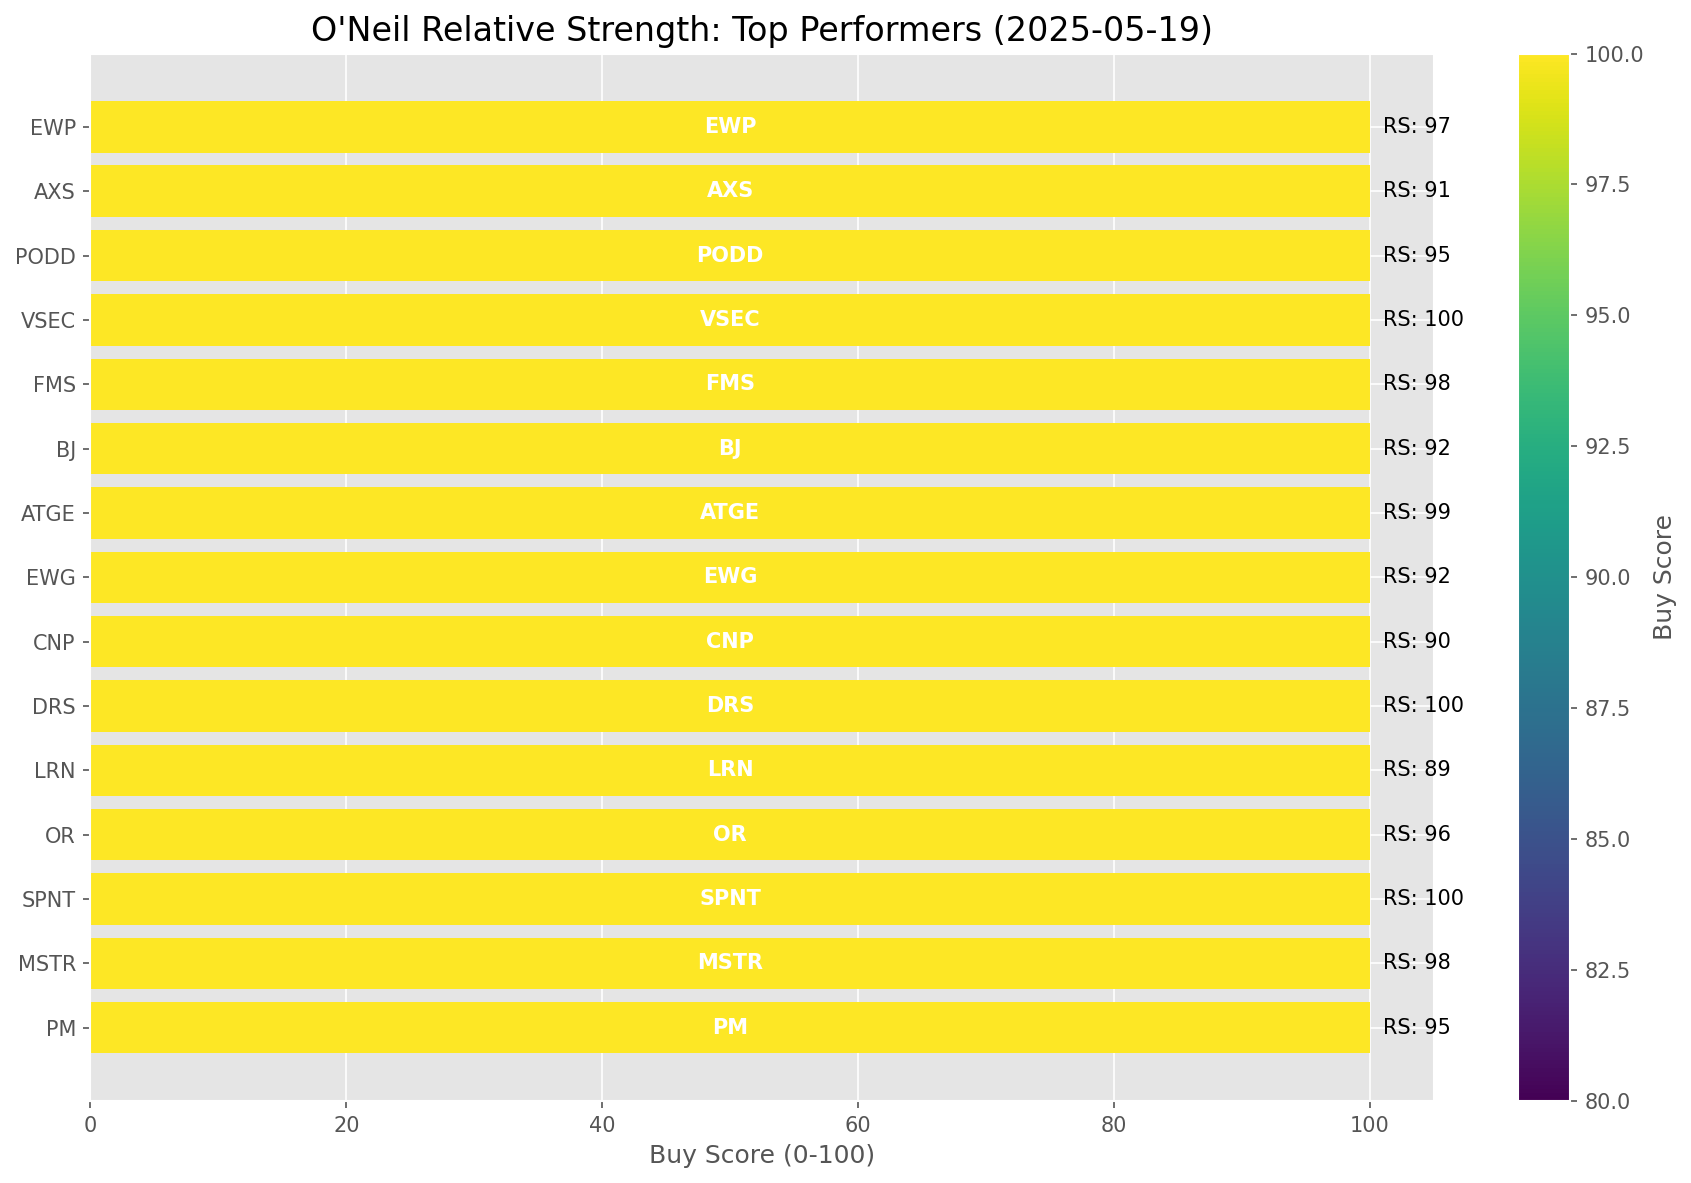
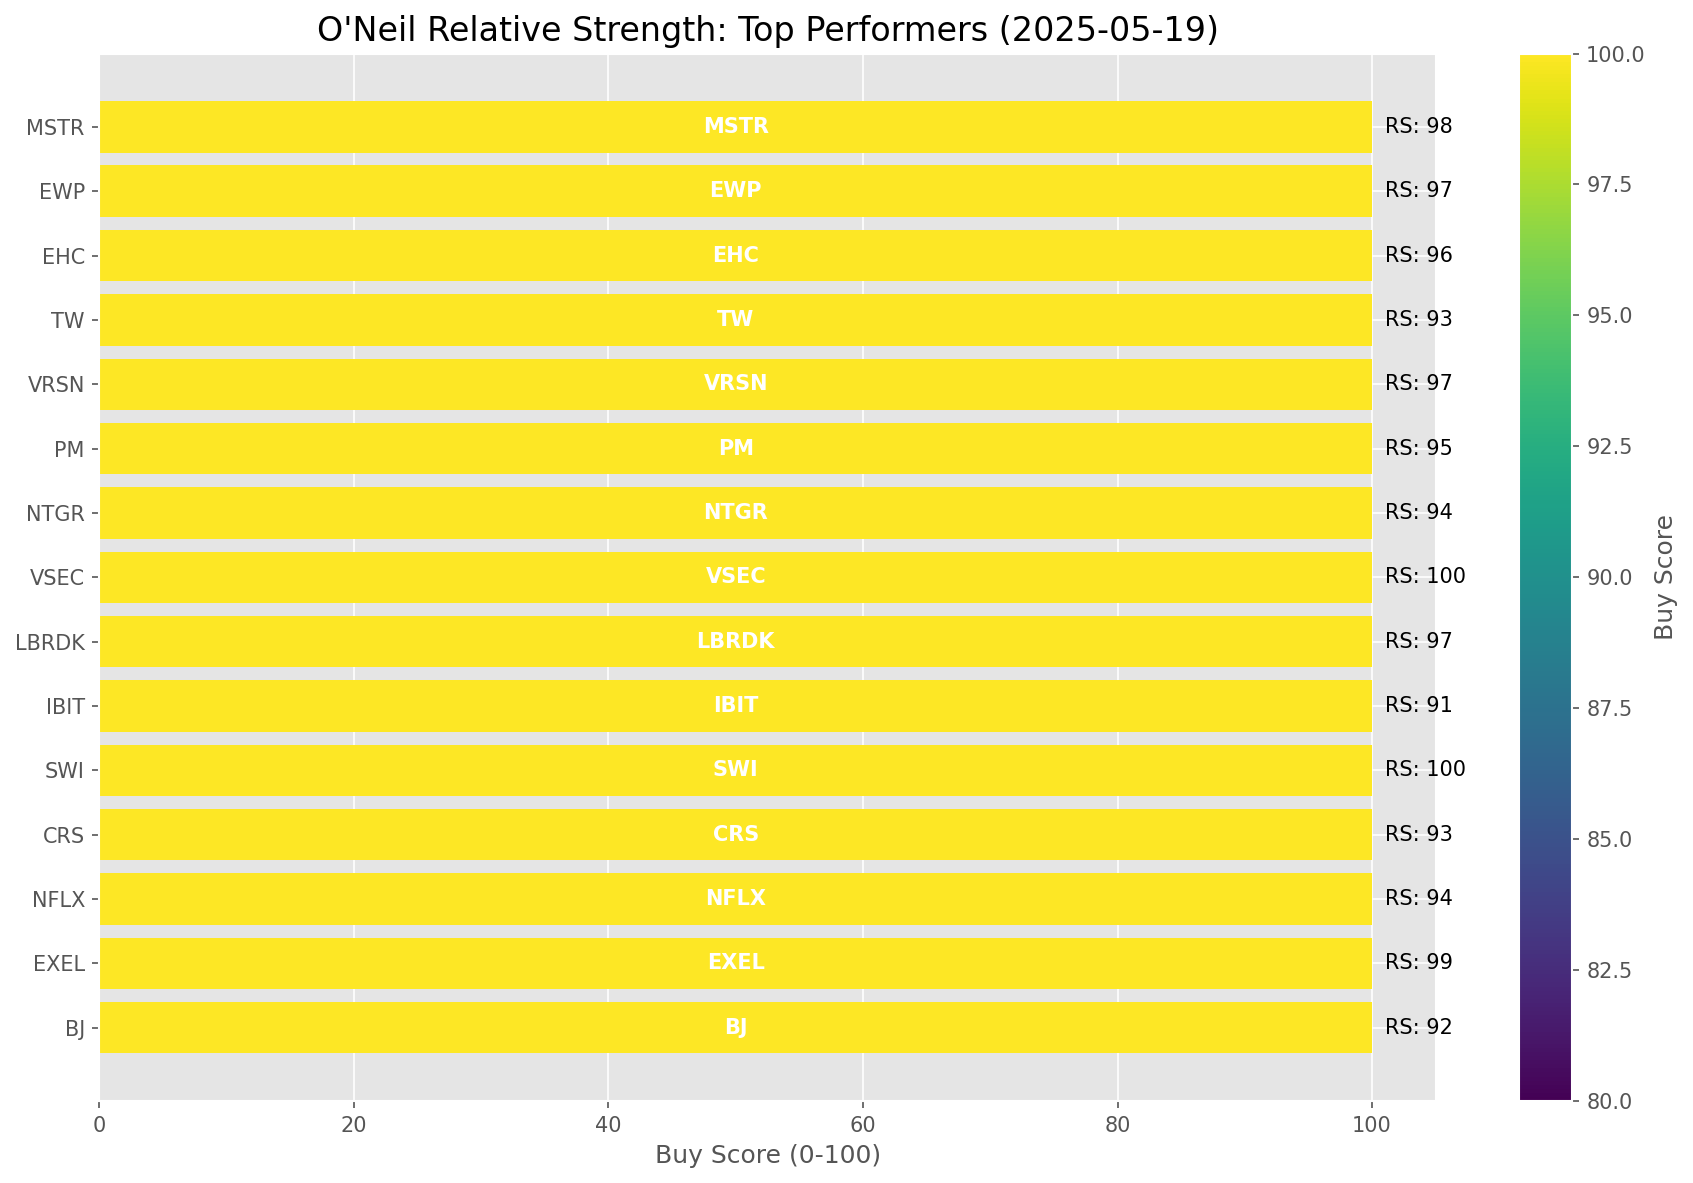
Add market report for 2025-05-19

diff --git a/oneil_relative_strength_report_2025-05-19.md b/oneil_relative_strength_report_2025-05-19.md
@@ -67,8 +67,8 @@ Based on William O'Neil's Relative Strength Methodology
 | [ARKW](https://www.tradingview.com/chart/?symbol=ARKW) | 72.0 | 44.0 | -4.76% | 10d ✓, 50d ✓, 200d ✓ | ↗ | Next Generation Internet |
 | [ARKF](https://www.tradingview.com/chart/?symbol=ARKF) | 70.0 | 40.0 | -5.89% | 10d ✓, 50d ✓, 200d ✓ | ↗ | Fintech Innovation |
 | [IYR](https://www.tradingview.com/chart/?symbol=IYR) | 69.8 | 60.0 | -0.76% | 10d ✓, 50d ✓, 200d ✗ | ↗ | Real Estate |
-| [BIL](https://www.tradingview.com/chart/?symbol=BIL) | 62.0 | 64.0 | 0.00% | 10d ✓, 50d ✓, 200d ✓ | ↘ | Short-term Treasuries |
 | [JETS](https://www.tradingview.com/chart/?symbol=JETS) | 62.0 | 24.0 | -12.15% | 10d ✓, 50d ✓, 200d ✓ | ↗ | Airlines |
+| [BIL](https://www.tradingview.com/chart/?symbol=BIL) | 62.0 | 64.0 | 0.00% | 10d ✓, 50d ✓, 200d ✓ | ↘ | Short-term Treasuries |
 | [ARKK](https://www.tradingview.com/chart/?symbol=ARKK) | 61.0 | 22.0 | -13.66% | 10d ✓, 50d ✓, 200d ✓ | ↗ | Innovation |
 | [URA](https://www.tradingview.com/chart/?symbol=URA) | 59.0 | 58.0 | -1.38% | 10d ✓, 50d ✓, 200d ✓ | ↘ | Uranium |
 | [SLV](https://www.tradingview.com/chart/?symbol=SLV) | 58.7 | 57.0 | -1.64% | 10d ✗, 50d ✗, 200d ✓ | ↗ | Silver |
@@ -110,71 +110,71 @@ The following 104 stocks show exceptional relative strength:
 
 | RS Rating | Buy Score | Current Price | Chart | Name | Ticker |
 |-----------|-----------|---------------|-------|------|--------|
-| 100 | 100 | $19.65 | [Chart](https://www.tradingview.com/chart/?symbol=SPNT) | SiriusPoint Ltd. | SPNT |
-| 100 | 100 | $42.00 | [Chart](https://www.tradingview.com/chart/?symbol=DRS) | Leonardo DRS, Inc. Common Stock | DRS |
 | 100 | 100 | $133.69 | [Chart](https://www.tradingview.com/chart/?symbol=VSEC) | VSE Corp | VSEC |
-| 100 | 100 | $28.56 | [Chart](https://www.tradingview.com/chart/?symbol=DB) | Deutsche Bank Aktiengesellschaft | DB |
+| 100 | 100 | $42.00 | [Chart](https://www.tradingview.com/chart/?symbol=DRS) | Leonardo DRS, Inc. Common Stock | DRS |
 | 100 | 100 | $98.75 | [Chart](https://www.tradingview.com/chart/?symbol=SEZL) | Sezzle Inc. Common Stock | SEZL |
+| 100 | 100 | $19.65 | [Chart](https://www.tradingview.com/chart/?symbol=SPNT) | SiriusPoint Ltd. | SPNT |
 | 100 | 100 | $182.97 | [Chart](https://www.tradingview.com/chart/?symbol=DAVE) | Dave Inc. Class A Common Stock | DAVE |
 | 100 | 100 | $26.70 | [Chart](https://www.tradingview.com/chart/?symbol=UVE) | UNIVERSAL INSURANCE HLDG, INC. | UVE |
+| 100 | 100 | $28.56 | [Chart](https://www.tradingview.com/chart/?symbol=DB) | Deutsche Bank Aktiengesellschaft | DB |
 | 100 | 100 | $161.24 | [Chart](https://www.tradingview.com/chart/?symbol=NRG) | NRG Energy, Inc. | NRG |
 | 100 | 100 | $23.27 | [Chart](https://www.tradingview.com/chart/?symbol=PRA) | ProAssurance Corporation | PRA |
-| 99 | 100 | $134.91 | [Chart](https://www.tradingview.com/chart/?symbol=ATGE) | Adtalem Global Education Inc. Common Shares | ATGE |
-| 99 | 100 | $188.98 | [Chart](https://www.tradingview.com/chart/?symbol=AGX) | Argan, Inc | AGX |
 | 99 | 100 | $44.69 | [Chart](https://www.tradingview.com/chart/?symbol=EXEL) | Exelixis Inc | EXEL |
 | 99 | 100 | $35.13 | [Chart](https://www.tradingview.com/chart/?symbol=KTOS) | Kratos Defense & Security Solutions, Inc. | KTOS |
-| 99 | 100 | $72.79 | [Chart](https://www.tradingview.com/chart/?symbol=ULS) | UL Solutions Inc. | ULS |
+| 99 | 100 | $188.98 | [Chart](https://www.tradingview.com/chart/?symbol=AGX) | Argan, Inc | AGX |
 | 99 | 100 | $161.17 | [Chart](https://www.tradingview.com/chart/?symbol=PLMR) | Palomar Holdings, Inc. Common stock | PLMR |
+| 99 | 100 | $134.91 | [Chart](https://www.tradingview.com/chart/?symbol=ATGE) | Adtalem Global Education Inc. Common Shares | ATGE |
+| 99 | 100 | $72.79 | [Chart](https://www.tradingview.com/chart/?symbol=ULS) | UL Solutions Inc. | ULS |
 | 98 | 100 | $413.42 | [Chart](https://www.tradingview.com/chart/?symbol=MSTR) | MicroStrategy Inc | MSTR |
 | 98 | 100 | $29.15 | [Chart](https://www.tradingview.com/chart/?symbol=FMS) | Fresenius Medical Care AG | FMS |
 | 98 | 100 | $39.84 | [Chart](https://www.tradingview.com/chart/?symbol=PAY) | Paymentus Holdings, Inc. | PAY |
-| 98 | 100 | $81.21 | [Chart](https://www.tradingview.com/chart/?symbol=RBLX) | Roblox Corporation | RBLX |
 | 98 | 100 | $35.25 | [Chart](https://www.tradingview.com/chart/?symbol=AHR) | American Healthcare REIT, Inc. | AHR |
-| 97 | 100 | $42.70 | [Chart](https://www.tradingview.com/chart/?symbol=EWP) | iShares MSCI Spain ETF | EWP |
-| 97 | 100 | $166.24 | [Chart](https://www.tradingview.com/chart/?symbol=HWM) | Howmet Aerospace Inc. | HWM |
-| 97 | 100 | $282.49 | [Chart](https://www.tradingview.com/chart/?symbol=VRSN) | VeriSign Inc | VRSN |
-| 97 | 100 | $73.82 | [Chart](https://www.tradingview.com/chart/?symbol=WRB) | W.R. Berkley Corporation | WRB |
-| 97 | 100 | $153.86 | [Chart](https://www.tradingview.com/chart/?symbol=CAH) | Cardinal Health, Inc. | CAH |
+| 98 | 100 | $81.21 | [Chart](https://www.tradingview.com/chart/?symbol=RBLX) | Roblox Corporation | RBLX |
 | 97 | 100 | $99.08 | [Chart](https://www.tradingview.com/chart/?symbol=LBRDK) | Liberty Broadband Corporation Class C | LBRDK |
-| 97 | 100 | $31.88 | [Chart](https://www.tradingview.com/chart/?symbol=TGS) | Transportadora de Gas del Sur S.A. ADS | TGS |
+| 97 | 100 | $282.49 | [Chart](https://www.tradingview.com/chart/?symbol=VRSN) | VeriSign Inc | VRSN |
+| 97 | 100 | $42.70 | [Chart](https://www.tradingview.com/chart/?symbol=EWP) | iShares MSCI Spain ETF | EWP |
+| 97 | 100 | $73.82 | [Chart](https://www.tradingview.com/chart/?symbol=WRB) | W.R. Berkley Corporation | WRB |
+| 97 | 100 | $166.24 | [Chart](https://www.tradingview.com/chart/?symbol=HWM) | Howmet Aerospace Inc. | HWM |
 | 97 | 100 | $34.80 | [Chart](https://www.tradingview.com/chart/?symbol=UTI) | Universal Technical Institute, Inc. | UTI |
-| 96 | 100 | $23.81 | [Chart](https://www.tradingview.com/chart/?symbol=OR) | OR Royalties Inc. | OR |
+| 97 | 100 | $153.86 | [Chart](https://www.tradingview.com/chart/?symbol=CAH) | Cardinal Health, Inc. | CAH |
+| 97 | 100 | $31.88 | [Chart](https://www.tradingview.com/chart/?symbol=TGS) | Transportadora de Gas del Sur S.A. ADS | TGS |
 | 96 | 100 | $121.18 | [Chart](https://www.tradingview.com/chart/?symbol=EHC) | Encompass Health Corporation Common Stock | EHC |
-| 96 | 100 | $129.37 | [Chart](https://www.tradingview.com/chart/?symbol=COOP) | Mr. Cooper Group Inc. Common Stock | COOP |
+| 96 | 100 | $23.81 | [Chart](https://www.tradingview.com/chart/?symbol=OR) | OR Royalties Inc. | OR |
 | 96 | 100 | $520.23 | [Chart](https://www.tradingview.com/chart/?symbol=DUOL) | Duolingo, Inc. Class A Common Stock | DUOL |
 | 96 | 100 | $162.72 | [Chart](https://www.tradingview.com/chart/?symbol=SE) | Sea Limited American Depositary Shares, each representing one Class A Ordinary Share | SE |
-| 96 | 100 | $31.75 | [Chart](https://www.tradingview.com/chart/?symbol=EUFN) | iShares MSCI Europe Financials ETF | EUFN |
 | 96 | 100 | $22.71 | [Chart](https://www.tradingview.com/chart/?symbol=CXW) | CoreCivic, Inc. | CXW |
+| 96 | 100 | $129.37 | [Chart](https://www.tradingview.com/chart/?symbol=COOP) | Mr. Cooper Group Inc. Common Stock | COOP |
+| 96 | 100 | $31.75 | [Chart](https://www.tradingview.com/chart/?symbol=EUFN) | iShares MSCI Europe Financials ETF | EUFN |
 | 95 | 100 | $173.17 | [Chart](https://www.tradingview.com/chart/?symbol=PM) | Philip Morris International Inc. | PM |
 | 95 | 100 | $325.84 | [Chart](https://www.tradingview.com/chart/?symbol=PODD) | Insulet Corporation | PODD |
 | 95 | 100 | $131.67 | [Chart](https://www.tradingview.com/chart/?symbol=HIG) | The Hartford Insurance Group, Inc. | HIG |
 | 95 | 100 | $84.39 | [Chart](https://www.tradingview.com/chart/?symbol=LB) | LandBridge Company LLC | LB |
-| 94 | 100 | $86.64 | [Chart](https://www.tradingview.com/chart/?symbol=TGLS) | Tecnoglass Inc. | TGLS |
-| 94 | 100 | $31.25 | [Chart](https://www.tradingview.com/chart/?symbol=NTGR) | NETGEAR, Inc. | NTGR |
 | 94 | 100 | $1191.64 | [Chart](https://www.tradingview.com/chart/?symbol=NFLX) | NetFlix Inc | NFLX |
+| 94 | 100 | $31.25 | [Chart](https://www.tradingview.com/chart/?symbol=NTGR) | NETGEAR, Inc. | NTGR |
+| 94 | 100 | $86.64 | [Chart](https://www.tradingview.com/chart/?symbol=TGLS) | Tecnoglass Inc. | TGLS |
 | 93 | 100 | $235.71 | [Chart](https://www.tradingview.com/chart/?symbol=CRS) | Carpenter Technology Corp | CRS |
-| 93 | 100 | $63.20 | [Chart](https://www.tradingview.com/chart/?symbol=SLF) | Sun Life Financial Inc. | SLF |
 | 93 | 100 | $145.45 | [Chart](https://www.tradingview.com/chart/?symbol=TW) | Tradeweb Markets Inc. Class A Common Stock | TW |
 | 93 | 100 | $43.58 | [Chart](https://www.tradingview.com/chart/?symbol=BTI) | British American Tobacco p.l.c. American Depositary Shares, American Depositary Shares, each representing one Ordinary Share | BTI |
+| 93 | 100 | $63.20 | [Chart](https://www.tradingview.com/chart/?symbol=SLF) | Sun Life Financial Inc. | SLF |
 | 93 | 100 | $25.27 | [Chart](https://www.tradingview.com/chart/?symbol=BSAC) | Banco Santander-Chile | BSAC |
-| 92 | 100 | $41.56 | [Chart](https://www.tradingview.com/chart/?symbol=EWG) | iShares MSCI Germany ETF | EWG |
 | 92 | 100 | $118.32 | [Chart](https://www.tradingview.com/chart/?symbol=BJ) | BJs Wholesale Club Holdings, Inc. Common Stock | BJ |
+| 92 | 100 | $41.56 | [Chart](https://www.tradingview.com/chart/?symbol=EWG) | iShares MSCI Germany ETF | EWG |
 | 92 | 100 | $40.85 | [Chart](https://www.tradingview.com/chart/?symbol=AB) | AllianceBernstein Holding, L.P. | AB |
 | 92 | 100 | $17.73 | [Chart](https://www.tradingview.com/chart/?symbol=BCS) | Barclays PLC | BCS |
-| 92 | 100 | $108.62 | [Chart](https://www.tradingview.com/chart/?symbol=RBA) | RB Global, Inc. | RBA |
 | 92 | 100 | $59.47 | [Chart](https://www.tradingview.com/chart/?symbol=MO) | Altria Group, Inc. | MO |
-| 91 | 100 | $102.85 | [Chart](https://www.tradingview.com/chart/?symbol=AXS) | Axis Capital Holders Limited | AXS |
-| 91 | 100 | $173.30 | [Chart](https://www.tradingview.com/chart/?symbol=ITA) | iShares U.S. Aerospace & Defense ETF | ITA |
+| 92 | 100 | $108.62 | [Chart](https://www.tradingview.com/chart/?symbol=RBA) | RB Global, Inc. | RBA |
 | 91 | 100 | $59.99 | [Chart](https://www.tradingview.com/chart/?symbol=IBIT) | iShares Bitcoin Trust ETF | IBIT |
-| 91 | 100 | $277.94 | [Chart](https://www.tradingview.com/chart/?symbol=CME) | CME Group Inc. | CME |
 | 91 | 100 | $33.80 | [Chart](https://www.tradingview.com/chart/?symbol=FDP) | Fresh Del Monte Produce Inc. | FDP |
+| 91 | 100 | $102.85 | [Chart](https://www.tradingview.com/chart/?symbol=AXS) | Axis Capital Holders Limited | AXS |
 | 91 | 100 | $235.29 | [Chart](https://www.tradingview.com/chart/?symbol=GE) | GE Aerospace | GE |
 | 91 | 100 | $19.38 | [Chart](https://www.tradingview.com/chart/?symbol=KT) | KT Corp. | KT |
+| 91 | 100 | $173.30 | [Chart](https://www.tradingview.com/chart/?symbol=ITA) | iShares U.S. Aerospace & Defense ETF | ITA |
+| 91 | 100 | $277.94 | [Chart](https://www.tradingview.com/chart/?symbol=CME) | CME Group Inc. | CME |
 | 90 | 100 | $37.66 | [Chart](https://www.tradingview.com/chart/?symbol=CNP) | CenterPoint Energy, Inc. | CNP |
 | 90 | 100 | $86.72 | [Chart](https://www.tradingview.com/chart/?symbol=RBRK) | Rubrik, Inc. | RBRK |
-| 90 | 100 | $81.40 | [Chart](https://www.tradingview.com/chart/?symbol=NFG) | National Fuel Gas Co. | NFG |
-| 90 | 100 | $82.16 | [Chart](https://www.tradingview.com/chart/?symbol=UNM) | Unum Group | UNM |
 | 90 | 100 | $137.20 | [Chart](https://www.tradingview.com/chart/?symbol=RTX) | RTX Corporation | RTX |
+| 90 | 100 | $82.16 | [Chart](https://www.tradingview.com/chart/?symbol=UNM) | Unum Group | UNM |
+| 90 | 100 | $81.40 | [Chart](https://www.tradingview.com/chart/?symbol=NFG) | National Fuel Gas Co. | NFG |
 | 89 | 100 | $156.95 | [Chart](https://www.tradingview.com/chart/?symbol=LRN) | Stride, Inc. | LRN |
 | 87 | 100 | $250.37 | [Chart](https://www.tradingview.com/chart/?symbol=RSG) | Republic Services Inc. | RSG |
 | 89 | 99 | $54.05 | [Chart](https://www.tradingview.com/chart/?symbol=EPR) | EPR Properties | EPR |
@@ -191,17 +191,17 @@ The following 104 stocks show exceptional relative strength:
 | 84 | 97 | $25.68 | [Chart](https://www.tradingview.com/chart/?symbol=EWS) | iShares MSCI Singapore ETF | EWS |
 | 84 | 97 | $89.42 | [Chart](https://www.tradingview.com/chart/?symbol=L) | Loews Corporation | L |
 | 85 | 96 | $58.76 | [Chart](https://www.tradingview.com/chart/?symbol=IGF) | iShares Global Infrastructure ETF | IGF |
-| 84 | 95 | $305.21 | [Chart](https://www.tradingview.com/chart/?symbol=CVNA) | Carvana Co. | CVNA |
-| 84 | 95 | $314.35 | [Chart](https://www.tradingview.com/chart/?symbol=VRSK) | Verisk Analytics, Inc. Common Stock | VRSK |
 | 84 | 95 | $24.63 | [Chart](https://www.tradingview.com/chart/?symbol=CPRX) | Catalyst Pharmaceutical  Inc. | CPRX |
+| 84 | 95 | $314.35 | [Chart](https://www.tradingview.com/chart/?symbol=VRSK) | Verisk Analytics, Inc. Common Stock | VRSK |
+| 84 | 95 | $305.21 | [Chart](https://www.tradingview.com/chart/?symbol=CVNA) | Carvana Co. | CVNA |
 | 83 | 95 | $32.99 | [Chart](https://www.tradingview.com/chart/?symbol=ZLAB) | Zai Lab Limited American Depositary Shares | ZLAB |
-| 83 | 95 | $456.09 | [Chart](https://www.tradingview.com/chart/?symbol=CASY) | Casey's General Stores Inc | CASY |
 | 83 | 95 | $197.98 | [Chart](https://www.tradingview.com/chart/?symbol=LOPE) | Grand Canyon Education, Inc | LOPE |
+| 83 | 95 | $456.09 | [Chart](https://www.tradingview.com/chart/?symbol=CASY) | Casey's General Stores Inc | CASY |
 | 81 | 95 | $23.89 | [Chart](https://www.tradingview.com/chart/?symbol=SRAD) | Sportradar Group AG Class A Ordinary Shares | SRAD |
 | 84 | 94 | $17.54 | [Chart](https://www.tradingview.com/chart/?symbol=MIR) | Mirion Technologies, Inc. | MIR |
 | 83 | 94 | $138.57 | [Chart](https://www.tradingview.com/chart/?symbol=DTE) | DTE Energy Company | DTE |
-| 83 | 94 | $97.17 | [Chart](https://www.tradingview.com/chart/?symbol=CALM) | Cal-Maine Foods Inc | CALM |
 | 83 | 94 | $68.81 | [Chart](https://www.tradingview.com/chart/?symbol=CTVA) | Corteva, Inc. Common Stock | CTVA |
+| 83 | 94 | $97.17 | [Chart](https://www.tradingview.com/chart/?symbol=CALM) | Cal-Maine Foods Inc | CALM |
 | 82 | 94 | $64.27 | [Chart](https://www.tradingview.com/chart/?symbol=HOOD) | Robinhood Markets, Inc. Class A Common Stock | HOOD |
 | 82 | 94 | $158.19 | [Chart](https://www.tradingview.com/chart/?symbol=PAYX) | Paychex Inc | PAYX |
 | 82 | 93 | $44.67 | [Chart](https://www.tradingview.com/chart/?symbol=TOST) | Toast, Inc. | TOST |
@@ -225,18 +225,18 @@ The following 72 stocks show deteriorating relative strength:
 | RS Rating | Sell Score | Current Price | Chart | Name | Ticker |
 |-----------|------------|---------------|-------|------|--------|
 | 1 | 100 | $281.49 | [Chart](https://www.tradingview.com/chart/?symbol=SAIA) | Saia, Inc. | SAIA |
-| 2 | 100 | $10.05 | [Chart](https://www.tradingview.com/chart/?symbol=WNC) | Wabash National Corp. | WNC |
 | 2 | 100 | $13.55 | [Chart](https://www.tradingview.com/chart/?symbol=IART) | Integra LifeSciences Holdings | IART |
+| 2 | 100 | $10.05 | [Chart](https://www.tradingview.com/chart/?symbol=WNC) | Wabash National Corp. | WNC |
+| 3 | 100 | $11.61 | [Chart](https://www.tradingview.com/chart/?symbol=CLB) | Core Laboratories Inc. | CLB |
 | 3 | 100 | $13.91 | [Chart](https://www.tradingview.com/chart/?symbol=DNLI) | Denali Therapeutics Inc. Common Stock | DNLI |
 | 3 | 100 | $30.39 | [Chart](https://www.tradingview.com/chart/?symbol=TWST) | Twist Bioscience Corporation Common Stock | TWST |
-| 3 | 100 | $11.61 | [Chart](https://www.tradingview.com/chart/?symbol=CLB) | Core Laboratories Inc. | CLB |
 | 3 | 100 | $24.17 | [Chart](https://www.tradingview.com/chart/?symbol=JANX) | Janux Therapeutics, Inc. Common Stock | JANX |
 | 4 | 100 | $17.93 | [Chart](https://www.tradingview.com/chart/?symbol=VRNT) | Verint Systems Inc | VRNT |
-| 4 | 100 | $10.22 | [Chart](https://www.tradingview.com/chart/?symbol=HPK) | HighPeak Energy, Inc. Common Stock | HPK |
 | 4 | 100 | $11.99 | [Chart](https://www.tradingview.com/chart/?symbol=ARCT) | Arcturus Therapeutics Holdings Inc. Common Stock | ARCT |
 | 4 | 100 | $30.75 | [Chart](https://www.tradingview.com/chart/?symbol=CYTK) | Cytokinetics Inc. | CYTK |
-| 5 | 100 | $15.45 | [Chart](https://www.tradingview.com/chart/?symbol=PENN) | PENN Entertainment, Inc. Common Stock | PENN |
+| 4 | 100 | $10.22 | [Chart](https://www.tradingview.com/chart/?symbol=HPK) | HighPeak Energy, Inc. Common Stock | HPK |
 | 5 | 100 | $10.88 | [Chart](https://www.tradingview.com/chart/?symbol=LSPD) | Lightspeed Commerce Inc. | LSPD |
+| 5 | 100 | $15.45 | [Chart](https://www.tradingview.com/chart/?symbol=PENN) | PENN Entertainment, Inc. Common Stock | PENN |
 | 5 | 100 | $14.70 | [Chart](https://www.tradingview.com/chart/?symbol=IMVT) | Immunovant, Inc. Common Stock | IMVT |
 | 6 | 100 | $28.58 | [Chart](https://www.tradingview.com/chart/?symbol=SRDX) | Surmodics, Inc. Common Stock | SRDX |
 | 6 | 100 | $21.01 | [Chart](https://www.tradingview.com/chart/?symbol=VERA) | Vera Therapeutics, Inc. Class A Common Stock | VERA |
@@ -285,8 +285,8 @@ The following 72 stocks show deteriorating relative strength:
 | 27 | 76 | $34.57 | [Chart](https://www.tradingview.com/chart/?symbol=SQM) | Sociedad Quimica y Minera de Chile SA | SQM |
 | 34 | 75 | $295.50 | [Chart](https://www.tradingview.com/chart/?symbol=BLD) | TopBuild Corp. Common Stock | BLD |
 | 27 | 74 | $26.50 | [Chart](https://www.tradingview.com/chart/?symbol=WY) | Weyerhaeuser Company | WY |
-| 28 | 74 | $132.79 | [Chart](https://www.tradingview.com/chart/?symbol=HES) | Hess Corporation | HES |
 | 34 | 74 | $12.70 | [Chart](https://www.tradingview.com/chart/?symbol=PDBC) | Invesco Actively Managed Exch-Traded Commodity Fd Tr Invesco Optimum Yield Diversified Commodity Strategy No K-1 ETF | PDBC |
+| 28 | 73 | $132.79 | [Chart](https://www.tradingview.com/chart/?symbol=HES) | Hess Corporation | HES |
 | 37 | 73 | $35.48 | [Chart](https://www.tradingview.com/chart/?symbol=CPB) | The Campbell's Company Common Stock | CPB |
 | 29 | 72 | $10.70 | [Chart](https://www.tradingview.com/chart/?symbol=SEMR) | SEMrush Holdings, Inc. | SEMR |
 | 36 | 72 | $44.83 | [Chart](https://www.tradingview.com/chart/?symbol=IYE) | iShares U.S. Energy ETF | IYE |
